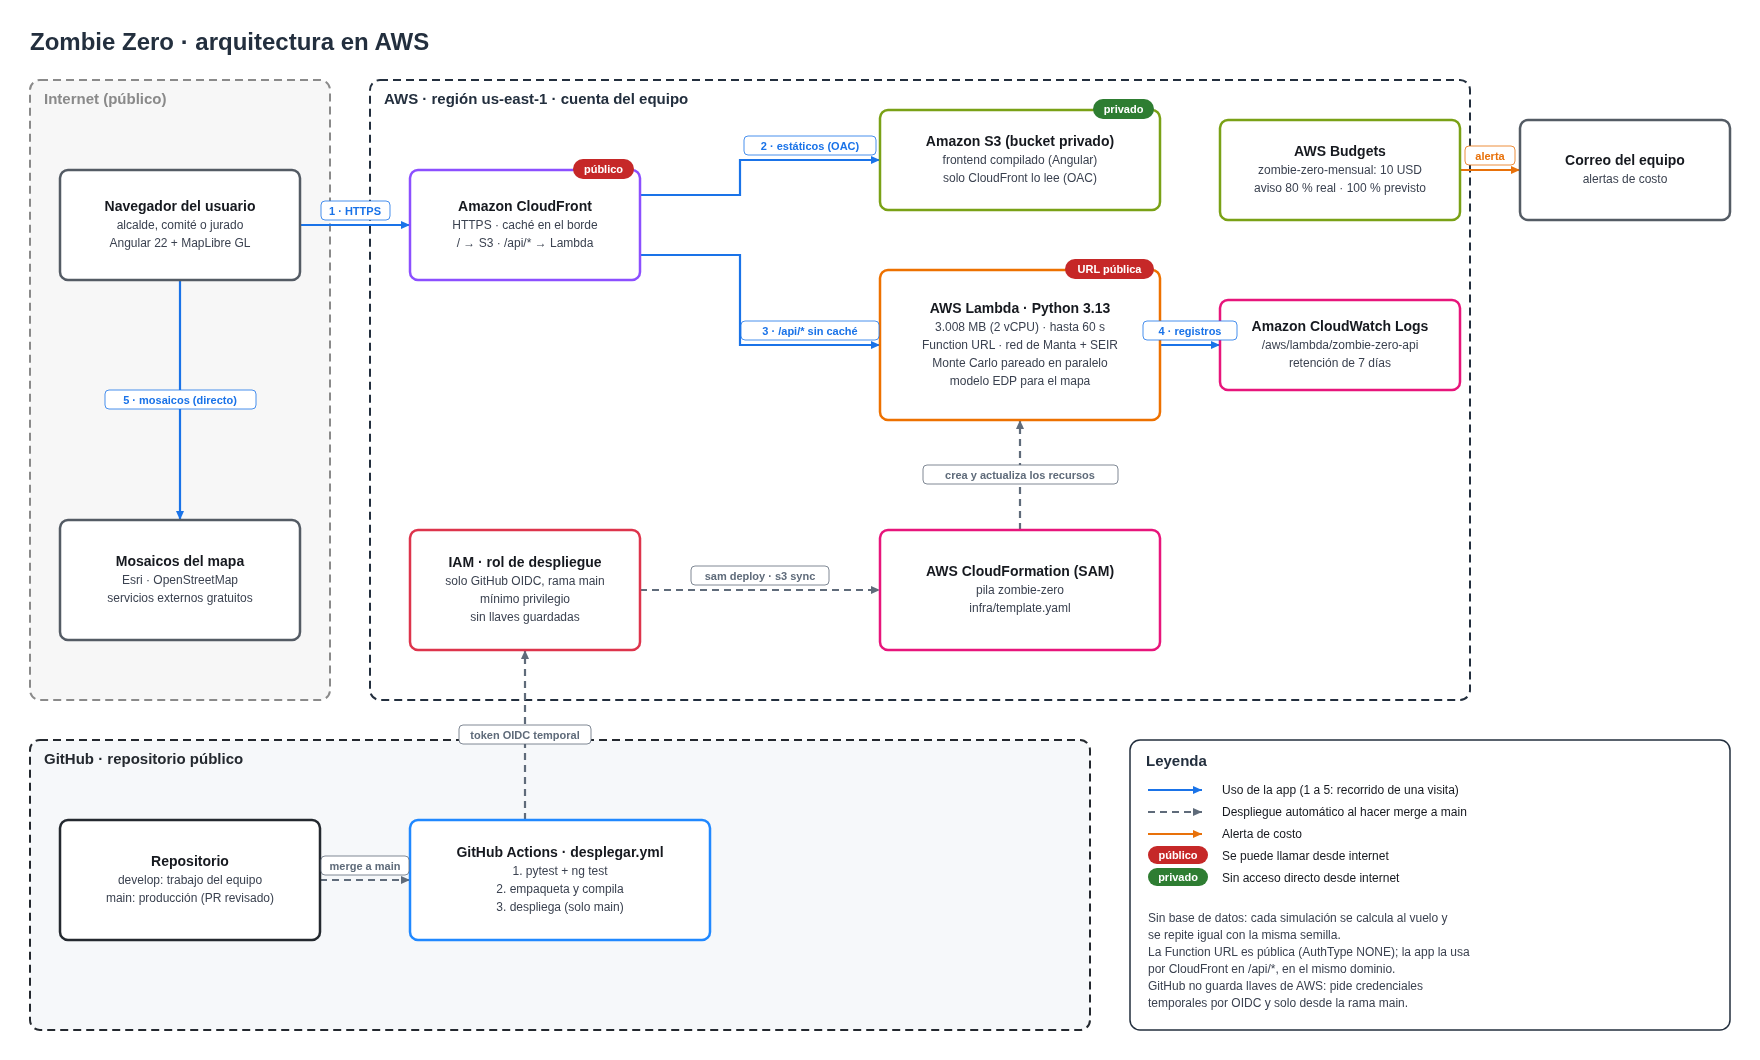
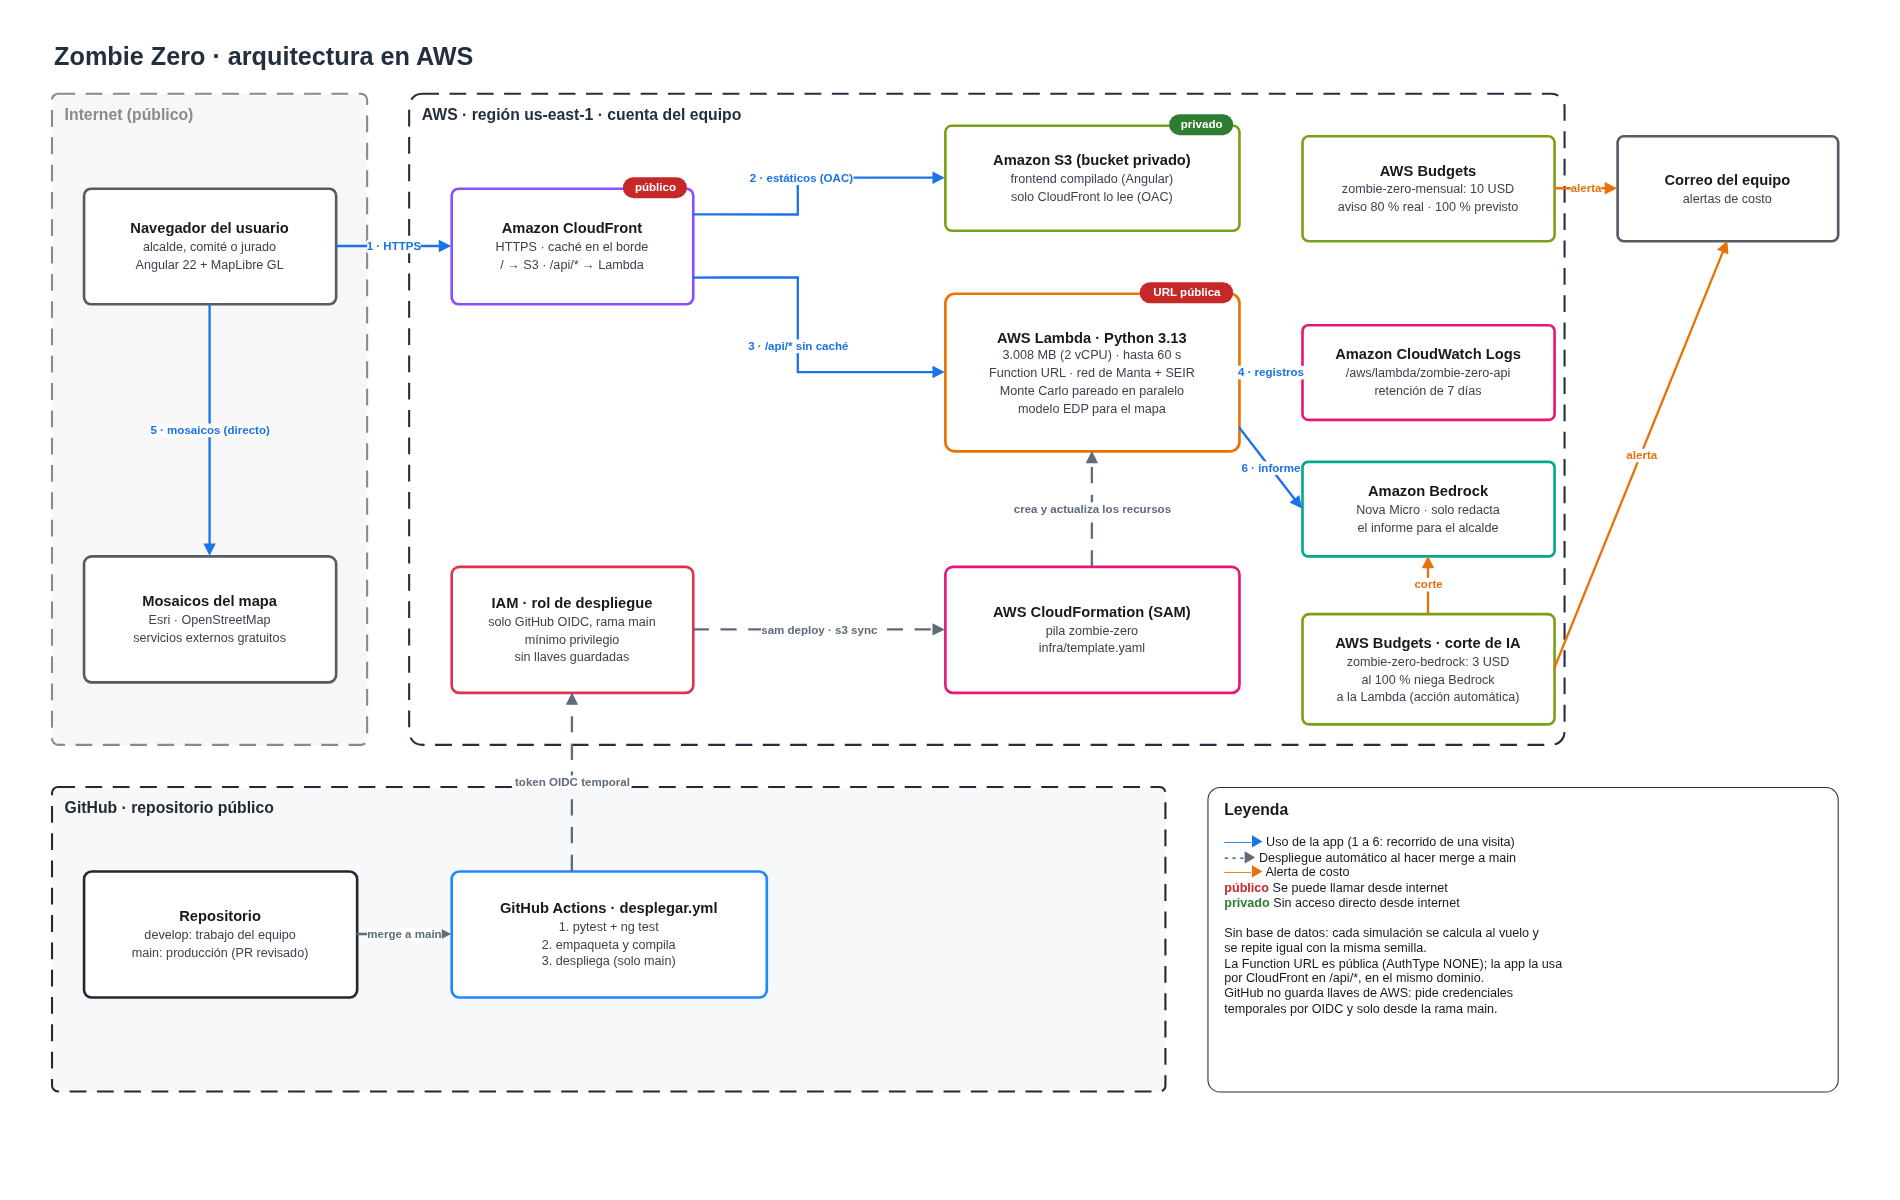
docs: costos y tiempos medidos en AWS, informe con IA y Bedrock en el diagrama
- costos.md: duraciones facturadas medidas tras el despliegue (14 s por
  simulación con 14 planes, 22,2 s con R0 = 5, 1,9 s el mapa) y tamaños
  reales de respuesta; estimación mensual recalculada (2,50 USD normal,
  24,97 USD brote activo) y nueva fila de gasto real (0,01 USD).
- api.md: tiempos medidos en la Lambda en vez de pendiente.
- README: punto 10 (informe para el alcalde), permiso y Budget de Bedrock,
  despliegue de la pila OIDC con sus parámetros, limitación de la cuota 0
  de Bedrock y resumen de costos actualizado.
- Diagrama: Amazon Bedrock y el Budget con corte automático de la IA.

diff --git a/docs/costos.md b/docs/costos.md
@@ -7,38 +7,23 @@ el 28/10/2026. No se cuentan los créditos del plan gratuito.
 
 | Acción | Qué se usa | Medición |
 |---|---|---|
-| Simulación completa (`POST /api/simular`, 100 repeticiones × 10 planes) | Lambda de 2 GB | 10,4 a 12,3 s facturados → usamos **12 s = 24 GB-s**. Respuesta de 48,6 KB |
-| Mapa EDP (`POST /api/edp`) | Lambda de 2 GB | 1,7 s facturados → usamos **2 s = 4 GB-s**. Respuesta de 27,5 KB |
+| Simulación completa (`POST /api/simular`, 100 repeticiones × 14 planes, escenario por defecto) | Lambda de 3.008 MB (2,94 GB) | 13,1 a 14,9 s facturados → usamos **14 s = 41 GB-s**. Respuesta de 233 KB comprimida |
+| Simulación del Brote Sorpresa (R0 = 5) | Lambda de 3.008 MB | 22,2 s facturados = **65 GB-s** |
+| Mapa EDP (`POST /api/edp`) | Lambda de 3.008 MB | 1,9 s facturados → usamos **2 s = 6 GB-s**. Respuesta de 204 KB comprimida |
 | Parámetros y salud (`GET /api/...`) | Lambda | 2 ms (despreciable) |
 | Informe para el alcalde (`POST /api/informe`) | Amazon Bedrock (Nova Micro) + Lambda | Resumen de 2,6 KB + instrucciones ≈ **1.100 tokens de entrada**; respuesta de **400 tokens como máximo**. Lambda: ~2 s esperando a Bedrock |
 | Primera visita a la web | CloudFront + S3 | 8 archivos, **0,52 MB** comprimidos (el código de MapLibre es la mayor parte) |
 | Mosaicos del mapa | Esri, OpenStreetMap | Fuera de AWS y sin costo para nosotros |
 
 Las duraciones salen de las líneas `REPORT` de CloudWatch Logs; los tamaños, de descargar cada recurso por
-la URL pública. La Lambda usa solo ~120 MB de memoria: se le asignan 2 GB porque en Lambda la CPU crece
+la URL pública (medido el 28/10/2026, después del despliegue de las 14:20). La Lambda usa solo ~220 MB de
+memoria: se le asignan 3.008 MB porque en Lambda la CPU crece
 con la memoria: con menos memoria cada simulación tendría menos CPU, tardaría más y se acercaría al límite
 de 60 s de CloudFront.
 
-### Cambios del 28/10 que todavía hay que medir en AWS
-
-La tabla anterior se midió con la Lambda de 2 GB. Desde la versión con Monte Carlo en paralelo:
-
-- **La Lambda tiene 3.008 MB** (2 vCPU) y simula los planes en 2 procesos. Se cobra 1,47 veces más por segundo,
-  pero cada simulación debería tardar menos: en local, con 2 procesos y lotes de 50 repeticiones, la misma
-  simulación tarda menos de la mitad.
-- **14 planes en vez de 10** (se sumó la estrategia adaptativa): cada simulación hace un 40 % más de cómputo.
-  En local, con 2 procesos, tarda 9,4 s en el escenario por defecto y 17 s con R0 = 5.
-- **El mapa trae un fotograma por día** en vez de uno cada 10 días: la respuesta pasa de 27,5 KB a unos
-  85 KB comprimidos (4 MB sin comprimir; CloudFront la comprime).
-
-Si la duración no bajara nada (peor caso, sin contar los 4 planes nuevos), una simulación costaría 12 s × 2,94 GB = **35 GB-s** y un mapa
-2 s × 2,94 GB = **6 GB-s**. Con eso el uso normal pasaría de $1,46 a **≈ $2,12** al mes (sigue en $0 con la
-capa gratuita) y el brote activo de $14,57 a **≈ $21,22** (≈ $13,80 con la capa gratuita, por encima del Budget
-de 10 USD, que avisaría). Con los 4 planes nuevos y la duración proporcional (12 s × 1,4 = 17 s), serían 49 GB-s por simulación:
-≈ $2,82 al mes en uso normal y ≈ $28,22 en un brote activo, sin la capa gratuita (3.000 y 30.000 simulaciones con su mapa, a $0,0000166667 por GB-s, más los mismos ≈ $0,07 y ≈ $0,72 del resto de servicios). Las cifras definitivas se
-recalculan con `infra/costos.sh` después del despliegue.
-`infra/costos.sh` multiplica los segundos de todo el mes por la memoria actual, así que las filas de ese mes
-mezclan invocaciones de 2 GB y de 3.008 MB y sobreestiman un poco el cómputo.
+Con 3.008 MB la Lambda tiene 2 vCPU y simula los planes en 2 procesos en paralelo. La simulación pasó de 10 a
+14 planes (estrategia adaptativa) y el mapa trae un fotograma por día; por eso cuesta más que la primera
+medición (12 s × 2 GB = 24 GB-s con 10 planes).
 
 ### Informe con IA (Amazon Bedrock)
 
@@ -46,6 +31,11 @@ Solo se llama cuando alguien pulsa «Explicar al alcalde»; si Bedrock falla, re
 no se cobra nada de Bedrock. Precio on-demand de Amazon Nova Micro en us-east-1: **$0,035 por millón de
 tokens de entrada** y **$0,14 por millón de tokens de salida** (precio de lista de la página de Bedrock;
 falta confirmarlo con `aws pricing get-products`, como el resto de la tabla).
+
+**Gasto real en Bedrock: $0.** AWS le asignó a esta cuenta nueva una cuota de 0 solicitudes por minuto para
+Nova Micro (y para los demás modelos que probamos), así que Bedrock responde `ThrottlingException` y el informe
+sale con la plantilla sin IA. El aumento de cuota se pide a AWS Support; la tabla siguiente es el techo para cuando esté
+activa.
 
 | | Cálculo | Costo |
 |---|---|---|
@@ -86,27 +76,27 @@ un cálculo del mapa EDP.
 
 | Servicio | Cálculo del uso | Precio unitario | Costo |
 |---|---|---|---|
-| Lambda: cómputo | 3.000 × 24 GB-s + 3.000 × 4 GB-s = **84.000 GB-s** | $0,0000166667 por GB-s | $1,40 |
+| Lambda: cómputo | 3.000 × 41 GB-s + 3.000 × 6 GB-s = **141.000 GB-s** | $0,0000166667 por GB-s | $2,35 |
 | Lambda: solicitudes | 3.000 + 3.000 + 500 (parámetros) = **6.500** | $0,20 por millón | $0,0013 |
-| CloudFront: transferencia | 500 × 0,52 MB + 3.000 × 0,049 MB + 3.000 × 0,028 MB = **0,48 GB** | $0,085 por GB | $0,041 |
+| CloudFront: transferencia | 500 × 0,52 MB + 3.000 × 0,233 MB + 3.000 × 0,204 MB = **1,53 GB** | $0,085 por GB | $0,13 |
 | CloudFront: solicitudes HTTPS | 500 × 9 + 3.000 + 3.000 = **10.500** | $0,01 por 10.000 | $0,011 |
 | S3: almacenamiento | **2,3 MB** de la web | $0,023 por GB-mes | $0,0001 |
 | S3: lecturas | peor caso, sin caché: 500 × 8 = **4.000 GET** | $0,004 por 10.000 | $0,0016 |
 | CloudWatch Logs | ~1 KB por invocación × 6.500 = **6,2 MB** (se guardan 7 días) | $0,50 por GB ingerido | $0,0031 |
-| AWS Budgets | 1 presupuesto con alertas por correo | Sin costo (AWS cobra solo los informes programados y las acciones) | $0 |
-| **Total** | | | **≈ $1,46 al mes** |
+| AWS Budgets | 2 presupuestos con alertas por correo y 1 acción (corte de Bedrock) | Los 2 primeros presupuestos con acciones son gratis | $0 |
+| **Total** | | | **≈ $2,50 al mes** |
 
 ### Brote activo (10 veces más uso)
 
 | Servicio | Cálculo del uso | Costo |
 |---|---|---|
-| Lambda: cómputo | 30.000 × 24 + 30.000 × 4 = **840.000 GB-s** | $14,00 |
+| Lambda: cómputo | 30.000 × 41 + 30.000 × 6 = **1.410.000 GB-s** | $23,50 |
 | Lambda: solicitudes | **65.000** | $0,013 |
-| CloudFront: transferencia | **4,8 GB** | $0,41 |
+| CloudFront: transferencia | **15,3 GB** | $1,30 |
 | CloudFront: solicitudes HTTPS | **105.000** | $0,11 |
 | S3 (almacenamiento y 40.000 GET) | | $0,016 |
 | CloudWatch Logs | **62 MB** | $0,031 |
-| **Total** | | **≈ $14,57 al mes** |
+| **Total** | | **≈ $24,97 al mes** |
 
 ### Con la capa siempre gratuita de AWS
 
@@ -115,13 +105,13 @@ solicitudes de CloudFront ni 5 GB de logs ([aws.amazon.com/free](https://aws.ama
 
 | Escenario | Sin capa gratuita | Con capa gratuita |
 |---|---|---|
-| Uso normal | $1,46 | **$0,00** (todo entra en la capa gratuita) |
-| Brote activo | $14,57 | **≈ $7,35** (solo los 440.000 GB-s de Lambda que pasan de 400.000) |
+| Uso normal | $2,50 | **$0,00** (todo entra en la capa gratuita) |
+| Brote activo | $24,97 | **≈ $16,83** (solo los 1.010.000 GB-s de Lambda que pasan de 400.000) |
 
 **Conclusión:** casi todo el costo es el cómputo de la Lambda, es decir, cuántas simulaciones se corren. La web y
 la transferencia cuestan centavos. Como no hay servidores encendidos ni base de datos, si nadie usa la
-herramienta el costo es prácticamente cero. El AWS Budget de 10 USD avisaría si un mes de brote activo se acerca
-a ese límite.
+herramienta el costo es prácticamente cero. Un mes de brote activo pasaría del AWS Budget de 10 USD, y el Budget avisaría por correo
+al 80 %. El informe con IA va aparte (tabla de Bedrock), con su propio tope de 3 USD.
 
 **Cómo bajarlo si hiciera falta:** pasar la Lambda a arm64 (Graviton), que cuesta un 20 % menos por GB-s
 ($0,0000133334), o bajar las repeticiones por defecto de 100 a 50, que reduce el cómputo casi a la mitad.
@@ -135,6 +125,7 @@ Acumulado del mes en curso. Cada fila es una medición; se agrega una nueva con
 |---|---|---|---|---|---|
 | 28/10/2026 00:38 | $0.00 | 79 | 466 s × 2 GB = 932 GB-s | $0.0155 | 152 |
 | 28/10/2026 11:18 | $0.01 | 122 | 722 s × 3 GB = 2120 GB-s | $0.0353 | 352 |
+| 28/10/2026 14:53 | $0.01 | 153 | 809 s × 3 GB = 2377 GB-s | $0.0396 | 485 |
 
 - **Gasto real:** sale de AWS Budgets y es el de toda la cuenta. AWS Cost Explorer todavía no muestra datos
   de esta cuenta (tarda hasta 24 horas en activarse).

diff --git a/README.md b/README.md
@@ -78,6 +78,12 @@ o se mantiene, y sus infectados, personas salvadas y porcentaje de brotes en que
    reales con el ajuste, y el botón **R de Manta 2020** simula la plaga con ese valor. Detalle en
    [docs/supuestos.md](docs/supuestos.md#calibración-con-datos-reales-covid-19-en-manta-2020).
 
+10. **Explica el resultado al alcalde:** el botón **Explicar al alcalde** del panel de recomendación pide a
+    Amazon Bedrock (Nova Micro) un párrafo en lenguaje simple con el plan, cuántos salva, qué tan sólido es y
+    la cifra llevada a toda Manta. **El motor calcula y la IA solo redacta:** recibe las cifras ya calculadas,
+    no vuelve a simular ni cambia la recomendación. Si Bedrock no responde, el informe sale igual con una
+    plantilla fija, marcada «Texto automático (sin IA)». Detalle en [docs/api.md](docs/api.md#post-apiinforme).
+
 ## Cómo probarlo
 
 El repositorio tiene dos partes independientes que se comunican por HTTP:
@@ -198,6 +204,7 @@ Todo está en `infra/` y se despliega en `us-east-1` con una sola plantilla
 | Lambda (Python 3.13, 3.008 MB = 2 vCPU, 60 s) + **Function URL** | La API. Function URL en vez de API Gateway porque una simulación puede pasar de los 30 s que permite API Gateway |
 | S3 privado + CloudFront | La interfaz web en Angular |
 | AWS Budget | Alerta por correo al 80 % del gasto mensual y si el pronóstico pasa del 100 % |
+| Permiso de Bedrock | La Lambda solo puede invocar `amazon.nova-micro-v1:0` (política `zombie-zero-invocar-bedrock`, creada por `infra/github-oidc.yaml`) |
 | CloudWatch Logs | Logs de la API, guardados 7 días |
 
 Requisitos: [AWS CLI v2](https://docs.aws.amazon.com/cli/latest/userguide/getting-started-install.html),
@@ -210,6 +217,16 @@ aws sso login                      # cada vez que expire la sesión
 aws sts get-caller-identity        # comprueba la cuenta
 
 CORREO_ALERTA=equipo@ejemplo.com infra/desplegar.sh
+```
+
+Antes, un administrador despliega una vez la pila de permisos (rol de GitHub por OIDC, política de Bedrock y
+corte de gasto de Bedrock). Tras el primer despliegue de la aplicación se vuelve a desplegar con el nombre del
+rol de la Lambda, que es el que recibe el corte:
+
+```bash
+aws cloudformation deploy --region us-east-1 --template-file infra/github-oidc.yaml \
+  --stack-name zombie-zero-github-oidc --capabilities CAPABILITY_NAMED_IAM \
+  --parameter-overrides CorreoAlerta=equipo@ejemplo.com RolLambda=<nombre del ApiFunctionRole>
 ```
 
 `desplegar.sh` arma el paquete de la Lambda (`infra/empaquetar.sh` descarga
@@ -310,13 +327,19 @@ las intervenciones, la calibración de la dificultad y la reproducibilidad.
   CLI no tiene ese límite y usa 1.000 por defecto.
 - **API sin autenticación:** la Function URL es pública. El costo está acotado por los límites de cada
   parámetro, el tiempo máximo de 60 s y la alerta del AWS Budget, pero no hay un límite de peticiones por
-  usuario.
+  usuario. Para Bedrock sí hay un corte automático: 1 llamada por minuto por contenedor y un Budget de 3 USD
+  que le quita el permiso a la Lambda si se supera.
+- **Informe con IA sin cuota todavía:** AWS le asignó a la cuenta nueva una cuota de 0 solicitudes por minuto
+  para Nova Micro (y también para los modelos Claude Haiku), así que hoy Bedrock responde `ThrottlingException`
+  y el informe sale con la plantilla sin IA. El aumento de cuota se pide a AWS Support; cuando se aprueba, el
+  informe pasa a redactarse con Bedrock sin cambiar código ni volver a desplegar.
 
 ## Costos
 
-Operar la herramienta cuesta **≈ 1,46 USD al mes** en uso normal (3.000 simulaciones) y **≈ 14,57 USD** en un
-mes de brote activo (30.000), sin contar la capa gratuita de AWS; con ella, 0 USD y ≈ 7,35 USD. Casi todo es
-cómputo de Lambda. Gasto real durante el evento: **0,01 USD** (medido el 28/10/2026). El cálculo completo y las mediciones están en
+Operar la herramienta cuesta **≈ 2,50 USD al mes** en uso normal (3.000 simulaciones) y **≈ 24,97 USD** en un
+mes de brote activo (30.000), sin contar la capa gratuita de AWS; con ella, 0 USD y ≈ 16,83 USD. Casi todo es
+cómputo de Lambda (14 s facturados por simulación, medidos en AWS). El informe con IA tiene su propio tope de
+3 USD al mes. Gasto real durante el evento: **0,01 USD** (medido el 28/10/2026 a las 14:53). El cálculo completo y las mediciones están en
 [docs/costos.md](docs/costos.md); `infra/costos.sh` agrega una medición nueva del gasto real.
 
 ## AWS Budget
@@ -328,6 +351,7 @@ La cuenta tiene presupuestos con alerta por correo desde el 1 de octubre de 2026
 | `Costo-Mensual` (captura) | 5 USD | Gasto real al 85 % y al 100 %; gasto previsto al 100 % |
 | `zombie-zero-mensual` (creado por `infra/template.yaml`) | 10 USD | Gasto real al 80 %; gasto previsto al 100 % |
 | `Alerta-Gasto` | 1 USD | Cualquier gasto real (0,01 %) |
+| `zombie-zero-bedrock` (creado por `infra/github-oidc.yaml`) | 3 USD, solo Bedrock | Al 100 % del gasto real avisa por correo y le niega Bedrock a la Lambda (acción automática) |
 
 ![AWS Budget Costo-Mensual con sus alertas](docs/budget.png)
 

diff --git a/docs/api.md b/docs/api.md
@@ -147,7 +147,8 @@ de 2,8 GHz; la Lambda de 2 GB es unas 2,4 veces más lenta (con el motor anterio
 Esa tabla es de la versión en serie. Ahora los planes se reparten entre procesos (2 en la Lambda de
 3.008 MB, todos los núcleos en la CLI) y los lotes son de 50 repeticiones: en local, con 6 procesos,
 300 repeticiones tardan 5,6 s. Con la estrategia adaptativa son 14 planes; con 2 procesos en local, 100
-repeticiones tardan 9,4 s (escenario por defecto) y 17 s (R0 = 5). Falta medirlo en AWS después del despliegue.
+repeticiones tardan 9,4 s (escenario por defecto) y 17 s (R0 = 5). En AWS (Lambda de 3.008 MB, 2 procesos)
+se midieron 13,1 a 14,9 s facturados en el escenario por defecto y 22,2 s con R0 = 5, lejos del corte de 60 s.
 
 Por eso la API usa 100 repeticiones por defecto y acepta hasta 300: el reto pide
 1.000 por defecto, pero con 14 planes no caben en los 60 s de la Lambda. La CLI
